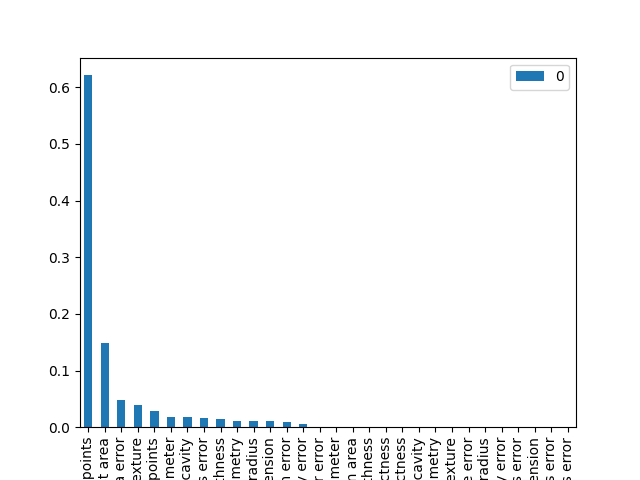
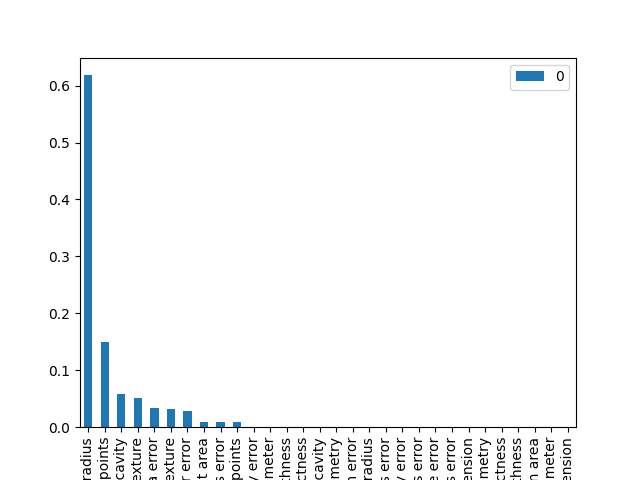
imagens

diff --git a/README.md b/README.md
@@ -26,7 +26,8 @@ extremamente fina e representam as características dos núcleos celulares prese
 <img width="300" src="https://encrypted-tbn0.gstatic.com/images?q=tbn:ANd9GcRnKoSZCrZOrRK-vdGQn_iZkWTdoSeQqCNE1eOF6VCXtNt-9Q-l3l4YUSNT93Aal7DdE0E&usqp=CAU">
 <img width="300" src="https://d3i71xaburhd42.cloudfront.net/50537a16eb18e2bc4971165258cba7a071f38cb7/2-Figure1-1.png">
 
-Estas características foram levantadas juntamente com médicos da área que até então consideraram as mesmas como relevantes durante a análise de um câncer de mama
+Estas características foram levantadas juntamente com médicos da área que até então consideraram as mesmas como
+relevantes durante a análise de um câncer de mama
 <table>
 <tr>
 <th colspan="100%">Características do conjunto de dados</th></tr>
@@ -63,55 +64,67 @@ Cada característica avaliada foi separada em 3 conjuntos. Média, desvio padrã
 <p>Para desenvolver o trabalho, foi utilizada a biblioteca Scikit Learn, que é uma biblioteca de machine learning presente na linguagem Python. A biblioteca foi utilizada pois já fornece nativamente uma grande quantia de datasets prontos para uso e também um módulo que nos permite aplicar a téncica da Árvore de Decisão, um dos métodos mais comuns dentro da aprendizagem de máquina, para realizar a classificação desejada.</p>
 <p>
 
-As entradas da árvore de decisão são os valores correspondentes às características retiradas dos núcleos celulares das massas dos nódulos das amostras, como por exemplo (Raio, perímetro, textura,etc), <br>
+As entradas da árvore de decisão são os valores correspondentes às características retiradas dos núcleos celulares das
+massas dos nódulos das amostras, como por exemplo (Raio, perímetro, textura,etc), <br>
 ![img_1.png](img_1.png)
 
 <br>
 Com os valores destas características(entradas) a árvore realiza o processo de treinamento.
 Para o treinamento, foram utilizados os seguintes parâmetros: Profundidade da árvore, tamanho dos dados teste e o critério para realizar a divisão ótima das carecterísticas, após esse treino, a arvore consegue indentificar as importâncias de cada caracteristica do cancer, e com isso consegue definir a melhor maneira de analisar cada amostra do dataset. O resultado possível (saída) para cada amostra é apenas um, a situação do câncer definida de forma binária [ 0  | Benigno] ou [ 1 | maligno].
-  
- **Técnica de Avaliação do Modelo**<br/>
-  Foi utilizada a técnica de validação cruzada k-fold, para avaliar a precisão do modelo na pratica, ou seja seu desempenho para um novo conjunto de dados<br/>
-  
-  
- **Métricas de Avaliação<br/>
-  Para realizar a avaliação do modelo, utilizamos uma matriz de confusão,
-  <br>
-  ![image](https://user-images.githubusercontent.com/54003782/153778306-39b3a1f3-b50b-4209-84ac-e80fb6fd9364.png)
+
+**Técnica de Avaliação do Modelo**<br/>
+Foi utilizada a técnica de validação cruzada k-fold, para avaliar a precisão do modelo na pratica, ou seja seu
+desempenho para um novo conjunto de dados<br/>
+
+**Métricas de Avaliação<br/>
+Para realizar a avaliação do modelo, utilizamos uma matriz de confusão,
+<br>
+![image](https://user-images.githubusercontent.com/54003782/153778306-39b3a1f3-b50b-4209-84ac-e80fb6fd9364.png)
 
   <br>
   Juntamente com a acurácia, precisão, recall e f1-score
   <img src="https://miro.medium.com/max/1400/1*t1vf-ofJrJqtmam0KSn3EQ.png"/>
 
+## Resultados obtidos
+<p>O experimento foi realizado utilizando diferente combinações de parametros, afim de obter o melhor resultado (sáida) possivel</p> 
+<p>  Foram realizados 200 testes (arquivo check_parameters.py) alteranando o critério entre "Entropy" e "GINI", profundidade entre 1 e 100, tamanho do teste entre 0.1 e 0.9</p>
+<p>  Com isso conseguimos os seguintes valores, pois os mesmos resultam no melhor f1-score, que é a média harmonica entre a precisão e o recall</p>
 
-<br>
-## Resultados Obtidos
-   <br>
-   O experimento foi realizado utilizando diferente combinações de parametros, afim de obter o melhor resultado (sáida) possivel 
-  <br>
-  Foram realizados 200 testes (arquivo check_parameters.py) alteranando o critério entre "Entropy" e "GINI", profundidade entre 1 e 100, tamanho do teste entre 0.1 e 0.9
-  <br>
-  Com isso conseguimos os seguintes valores, pois os mesmos resultam no melhor f1-score, que é a média harmonica entre a precisão e o recall
-  <br>
-  **Precisão**
-   <br>
-    Dentre todas as classificações de classe Positivo que o modelo fez, quantas estão corretas;
-  <br>
-  **Recall(Sensibilidade)**
-   <br>
-   Dentre todas as situações de classe Positivo como valor esperado, quantas estão corretas;
+### Recall(Sensibilidade)
+
+Dentre todas as classificações de classe Positivo que o modelo fez, quantas estão corretas;
+
+### Recall(Sensibilidade)
+
+Dentre todas as situações de classe Positivo como valor esperado, quantas estão corretas;
+
+### Valores
+
+  <li>Profundidade da árvore: 77.4</li> 
+  <li>Tamanho dos dados de teste: 0.14</li> 
+  <li>Crtitério de divisão: Entropia</li> 
   <br>
 
-  **Valores**
-   <br>
-  <li>Profundidade da árvore: 77.4</li> <br>
-  <li>Tamanho dos dados de teste: 0.14</li> <br>
-  <li>Crtitério de divisão: Entropia</li> <br>
-  
-  <br>
-  
-  
+![](confusion_matrix.png)
+
+![](feature_importance.png)
+
+![](tree.png)
+
+![img_2.png](img_2.png)
+
+![img_3.png](img_3.png)
+
+![img_4.png](img_4.png)
+
+
+
+
+
+
+
 ## Instruções de uso do software
+
 ## Vídeo
 
 
